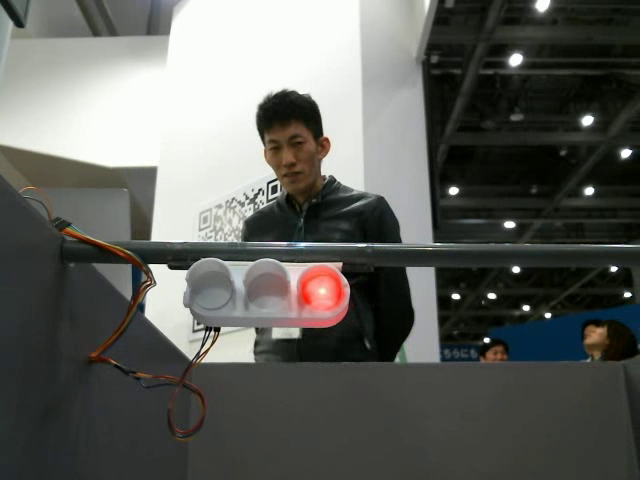
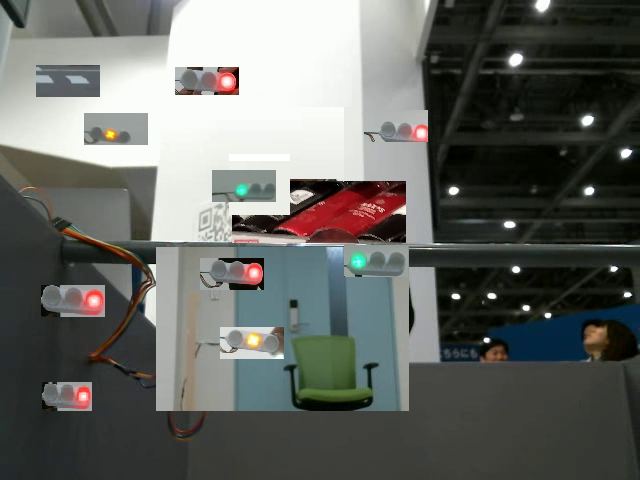
confirmed testbench works successfully (RGB/HSV+HOG)

diff --git a/hls/hog_svm/src/main.cpp b/hls/hog_svm/src/main.cpp
@@ -40,9 +40,6 @@ inline int approx_distance(int dx, int dy){
 	            ( min << 7 ) - ( min << 5 ) + ( min << 3 ) - ( min << 1 )) >> 8 );
 }
 
-struct bgr{
-	unsigned char b,g,r;
-};
 void grayscale_and_resizing(hls::stream<bgr>& bgr_in, hls::stream<bgr>&upper_scaled_rgb, hls::stream<bgr>&bottom_scaled_rgb, hls::stream<ap_uint<8> >& gray_pix){
 	//scaleBuffer[i][j]
 	//i indicates the kind of location in (8,8) cell
@@ -61,7 +58,7 @@ void grayscale_and_resizing(hls::stream<bgr>& bgr_in, hls::stream<bgr>&upper_sca
 					gray_pix.write(gray);
 					int yy2 = yy%4;
 					if((yy2 == 1 || yy2 == 2) && (xx == 3 || xx == 4)){
-						if(y == 6 && x == 4){
+						if(yy == 6 && xx == 4){
 							//generate upper and bottom output
 							bgr pix1, pix2, pix3, pix4, pix5, pix6, pix7, pix8;
 							pix1 = scaleBuffer[0][x];
@@ -87,8 +84,10 @@ void grayscale_and_resizing(hls::stream<bgr>& bgr_in, hls::stream<bgr>&upper_sca
 							b_rst.r = u_rsum / 4 + (((u_rsum % 2) > 0) ? 1 : 0);
 							upper_scaled_rgb.write(u_rst);
 							bottom_scaled_rgb.write(b_rst);
+							//cout << y << " " << x << " " << u_rst.b << " " << b_rst.b << endl;
 						}else{
-							int bufindex = 4 * (y / 4) + yy2 * 2 + (xx - 3);
+							int bufindex = 4 * (yy / 4) + 2 * (yy2 / 2) + (xx - 3);
+							//cout << bufindex << endl;
 							scaleBuffer[bufindex][x] = pix;
 						}
 					}
@@ -126,10 +125,10 @@ void bgr2hsv(unsigned char bb, unsigned char gg, unsigned char rr, unsigned char
 }
 
 struct pixweight{
-	ap_fixed_float upper_bgrweight[3];
-	ap_fixed_float bottom_bgrweight[3];
 	ap_fixed_float upper_hsvweight[3];
 	ap_fixed_float bottom_hsvweight[3];
+	ap_fixed_float upper_bgrweight[3];
+	ap_fixed_float bottom_bgrweight[3];
 };
 
 ap_fixed_float multiply_accum_bgr(ap_fixed_float weights[3], bgr features){
@@ -141,41 +140,41 @@ ap_fixed_float multiply_accum_bgr(ap_fixed_float weights[3], bgr features){
 void bgr_hsv_svm_classification(hls::stream<bgr>& upper_scaled_in, hls::stream<bgr>& bottom_scaled_in, hls::stream<ap_fixed_float>& resultstream){
 	ap_fixed_float PartialSum[4][80 - 8 + 1];
 	const pixweight WeightData[4][8] = {
-	{{{0.13471201, 0.083322162, 0.035062906}, {0.13471201, 0.083322162, 0.035062906}, {0.050302028, 0.041768948, -0.018623708}, {0.050302028, 0.041768948, -0.018623708}},
-	{{0.12138333, -0.021585074, 0.026402816}, {0.12138333, -0.021585074, 0.026402816}, {0.023603471, 0.033578816, 0.0098683894}, {0.023603471, 0.033578816, 0.0098683894}},
-	{{0.064547878, -0.036325294, -0.051299207}, {0.064547878, -0.036325294, -0.051299207}, {-0.015845041, -0.047933505, -0.029382994}, {-0.015845041, -0.047933505, -0.029382994}},
-	{{-0.082272872, -0.037619732, -0.0032339732}, {-0.082272872, -0.037619732, -0.0032339732}, {-0.0045304722, -0.014916845, -0.0088652933}, {-0.0045304722, -0.014916845, -0.0088652933}},
-	{{0.060039154, -0.15293596, -0.080378009}, {0.060039154, -0.15293596, -0.080378009}, {0.030134322, -0.011468256, 0.021366325}, {0.030134322, -0.011468256, 0.021366325}},
-	{{0.061231119, 0.054127958, 0.030798207}, {0.061231119, 0.054127958, 0.030798207}, {0.042379168, 0.026543052, 0.10076567}, {0.042379168, 0.026543052, 0.10076567}},
-	{{0.0029276586, 0.017786769, -0.01837371}, {0.0029276586, 0.017786769, -0.01837371}, {-0.16910963, -0.19076954, 0.051312153}, {-0.16910963, -0.19076954, 0.051312153}},
-	{{-0.010471252, -0.10217662, -0.014071269}, {-0.010471252, -0.10217662, -0.014071269}, {-0.067393744, -0.096034793, -0.0059219049}, {-0.067393744, -0.096034793, -0.0059219049}}}
+	{{{0.13471201, 0.083322162, 0.035062906}, {-0.11489125, 0.0059167839, 0.027757671}, {0.047419214, 0.038957065, 0.026170945}, {0.050302028, 0.041768948, -0.018623708}},
+	{{0.12138333, -0.021585074, 0.026402816}, {-0.093760109, 0.013729818, 0.018887553}, {0.036655084, 0.042319087, 0.032978136}, {0.023603471, 0.033578816, 0.0098683894}},
+	{{0.064547878, -0.036325294, -0.051299207}, {-0.019958287, -0.039659468, -0.034957669}, {-0.051825588, -0.022724007, -0.023615365}, {-0.015845041, -0.047933505, -0.029382994}},
+	{{-0.082272872, -0.037619732, -0.0032339732}, {0.10066434, -0.012884961, 0.004957952}, {0.0052929725, 0.034503772, 0.054640886}, {-0.0045304722, -0.014916845, -0.0088652933}},
+	{{0.060039154, -0.15293596, -0.080378009}, {0.030640047, -0.1577689, 0.005688175}, {-0.028081409, -0.031332055, -0.047488313}, {0.030134322, -0.011468256, 0.021366325}},
+	{{0.061231119, 0.054127958, 0.030798207}, {-0.03109787, 0.0048661604, 0.074427291}, {0.0038479692, -0.019300525, 0.038895896}, {0.042379168, 0.026543052, 0.10076567}},
+	{{0.0029276586, 0.017786769, -0.01837371}, {-0.13702389, 0.18198122, 0.033470003}, {-0.044036768, -0.053151348, -0.017373555}, {-0.16910963, -0.19076954, 0.051312153}},
+	{{-0.010471252, -0.10217662, -0.014071269}, {-0.0077155735, 0.0027027836, -0.013702486}, {-0.00078318174, -0.0134685, -0.025473166}, {-0.067393744, -0.096034793, -0.0059219049}}}
 	,
-	{{{-0.053935112, 0.0091040652, -0.031652548}, {-0.053935112, 0.0091040652, -0.031652548}, {-0.02003568, -0.020670034, -0.022160591}, {-0.02003568, -0.020670034, -0.022160591}},
-	{{-0.020781729, -0.24581708, -0.071282291}, {-0.020781729, -0.24581708, -0.071282291}, {-0.097039813, -0.13357548, 0.084337575}, {-0.097039813, -0.13357548, 0.084337575}},
-	{{-0.084402904, -0.11817464, 0.039444177}, {-0.084402904, -0.11817464, 0.039444177}, {-0.033581, -0.049768229, 0.18229063}, {-0.033581, -0.049768229, 0.18229063}},
-	{{0.13687052, -0.13877358, 0.035004109}, {0.13687052, -0.13877358, 0.035004109}, {0.035067667, -0.069998808, 0.11097779}, {0.035067667, -0.069998808, 0.11097779}},
-	{{0.15890596, -0.12908746, -0.036374915}, {0.15890596, -0.12908746, -0.036374915}, {-0.077920979, -0.32958032, -0.0065736498}, {-0.077920979, -0.32958032, -0.0065736498}},
-	{{-0.1934103, -0.032097639, 0.11303854}, {-0.1934103, -0.032097639, 0.11303854}, {-0.00094657861, -0.043625967, 0.23625573}, {-0.00094657861, -0.043625967, 0.23625573}},
-	{{-0.22198444, 0.19131014, 0.17004659}, {-0.22198444, 0.19131014, 0.17004659}, {-0.0033271789, 0.011490043, 0.32489379}, {-0.0033271789, 0.011490043, 0.32489379}},
-	{{-0.16449135, 0.10548364, 0.067575418}, {-0.16449135, 0.10548364, 0.067575418}, {-0.13897258, -0.14510974, 0.068374273}, {-0.13897258, -0.14510974, 0.068374273}}}
+	{{{-0.053935112, 0.0091040652, -0.031652548}, {0.023416391, -0.074666061, -0.039775589}, {-0.035288374, -0.035181796, -0.017707323}, {-0.02003568, -0.020670034, -0.022160591}},
+	{{-0.020781729, -0.24581708, -0.071282291}, {0.14290865, -0.27017456, -0.13471213}, {-0.047661749, -0.067916795, 0.056500322}, {-0.097039813, -0.13357548, 0.084337575}},
+	{{-0.084402904, -0.11817464, 0.039444177}, {-0.088003478, -0.2736915, -0.030637774}, {0.0062391187, 0.022572013, 0.10186606}, {-0.033581, -0.049768229, 0.18229063}},
+	{{0.13687052, -0.13877358, 0.035004109}, {-0.021838353, -0.16480011, 0.041279092}, {0.0072159019, -0.030498058, 0.066940656}, {0.035067667, -0.069998808, 0.11097779}},
+	{{0.15890596, -0.12908746, -0.036374915}, {0.14669574, -0.085918652, -0.057287366}, {-0.048676388, -0.14245471, 0.013761205}, {-0.077920979, -0.32958032, -0.0065736498}},
+	{{-0.1934103, -0.032097639, 0.11303854}, {-0.017067001, 0.020565927, 0.16309413}, {-0.010302848, -0.014339011, 0.19905551}, {-0.00094657861, -0.043625967, 0.23625573}},
+	{{-0.22198444, 0.19131014, 0.17004659}, {-0.18556159, 0.25616134, 0.27801237}, {-0.097839446, -0.10329261, 0.20554061}, {-0.0033271789, 0.011490043, 0.32489379}},
+	{{-0.16449135, 0.10548364, 0.067575418}, {0.019044619, 0.12031009, 0.045026213}, {-0.067908699, -0.091900212, 0.068250282}, {-0.13897258, -0.14510974, 0.068374273}}}
 	,
-	{{{0.08470874, -0.03524777, -0.023765044}, {0.08470874, -0.03524777, -0.023765044}, {0.074593713, 0.058966379, 0.059484843}, {0.074593713, 0.058966379, 0.059484843}},
-	{{-0.033169333, -0.25499266, -0.13677776}, {-0.033169333, -0.25499266, -0.13677776}, {-0.043610391, -0.068694957, -0.012626139}, {-0.043610391, -0.068694957, -0.012626139}},
-	{{-0.13132883, -0.30579938, -0.13154223}, {-0.13132883, -0.30579938, -0.13154223}, {-0.016838394, -0.10008507, -0.022767541}, {-0.016838394, -0.10008507, -0.022767541}},
-	{{0.16711428, -0.14871899, 0.043064104}, {0.16711428, -0.14871899, 0.043064104}, {-0.00097244005, -0.1720749, -0.049039706}, {-0.00097244005, -0.1720749, -0.049039706}},
-	{{-0.028743729, -0.091273505, 0.034011042}, {-0.028743729, -0.091273505, 0.034011042}, {-0.11783557, -0.38750312, 0.064519567}, {-0.11783557, -0.38750312, 0.064519567}},
-	{{0.0056306783, -0.014925917, 0.18519255}, {0.0056306783, -0.014925917, 0.18519255}, {-0.058837353, -0.15747198, 0.14471212}, {-0.058837353, -0.15747198, 0.14471212}},
-	{{-0.10777391, 0.17725541, 0.23888486}, {-0.10777391, 0.17725541, 0.23888486}, {0.059702007, 0.016759473, 0.18784607}, {0.059702007, 0.016759473, 0.18784607}},
-	{{-0.17712807, 0.087059749, 0.083511978}, {-0.17712807, 0.087059749, 0.083511978}, {0.0092453054, -0.070892581, 0.0043148652}, {0.0092453054, -0.070892581, 0.0043148652}}}
+	{{{0.08470874, -0.03524777, -0.023765044}, {-0.03068641, 0.16649633, 0.076372839}, {0.020160063, -0.031518301, -0.021673036}, {0.074593713, 0.058966379, 0.059484843}},
+	{{-0.033169333, -0.25499266, -0.13677776}, {0.056319299, -0.15510863, -0.08903264}, {-0.095515848, -0.12267881, 0.036372467}, {-0.043610391, -0.068694957, -0.012626139}},
+	{{-0.13132883, -0.30579938, -0.13154223}, {-0.068596446, -0.093998606, -0.050063475}, {-0.081755654, -0.14015116, 0.04963001}, {-0.016838394, -0.10008507, -0.022767541}},
+	{{0.16711428, -0.14871899, 0.043064104}, {0.094610934, 0.001756563, -0.0044180378}, {0.083483431, -0.091793456, 0.074646079}, {-0.00097244005, -0.1720749, -0.049039706}},
+	{{-0.028743729, -0.091273505, 0.034011042}, {0.0075680724, 0.041664244, 0.079285246}, {-0.0077342154, -0.31845474, 0.050872274}, {-0.11783557, -0.38750312, 0.064519567}},
+	{{0.0056306783, -0.014925917, 0.18519255}, {-0.0054362796, 0.054282867, 0.1365067}, {0.03983544, -0.037319012, 0.22617257}, {-0.058837353, -0.15747198, 0.14471212}},
+	{{-0.10777391, 0.17725541, 0.23888486}, {0.056713651, 0.043068698, 0.1859542}, {0.027665586, 0.048369309, 0.26915897}, {0.059702007, 0.016759473, 0.18784607}},
+	{{-0.17712807, 0.087059749, 0.083511978}, {0.24562723, -0.097942299, 0.010980114}, {-0.046524645, -0.097195807, 0.08723558}, {0.0092453054, -0.070892581, 0.0043148652}}}
 	,
-	{{{0.13409783, 0.13689984, 0.0075472259}, {0.13409783, 0.13689984, 0.0075472259}, {0.093046917, 0.062794018, 0.027703842}, {0.093046917, 0.062794018, 0.027703842}},
-	{{-0.041404445, -0.061232684, -0.09921005}, {-0.041404445, -0.061232684, -0.09921005}, {0.079139321, 0.047343812, 0.0083861466}, {0.079139321, 0.047343812, 0.0083861466}},
-	{{0.026515395, -0.042265334, 0.014214927}, {0.026515395, -0.042265334, 0.014214927}, {0.091222795, 0.054607177, 0.014804954}, {0.091222795, 0.054607177, 0.014804954}},
-	{{0.076428341, -0.098295236, 0.05998011}, {0.076428341, -0.098295236, 0.05998011}, {0.0068872233, -0.043541468, -0.084461526}, {0.0068872233, -0.043541468, -0.084461526}},
-	{{0.0048971584, 0.088781691, 0.15474196}, {0.0048971584, 0.088781691, 0.15474196}, {-0.0022159363, -0.07038476, -0.026038157}, {-0.0022159363, -0.07038476, -0.026038157}},
-	{{0.12206222, 0.087455524, 0.11157121}, {0.12206222, 0.087455524, 0.11157121}, {-0.09174724, -0.17449156, 0.023081852}, {-0.09174724, -0.17449156, 0.023081852}},
-	{{0.011593439, 0.047574944, 0.080315934}, {0.011593439, 0.047574944, 0.080315934}, {-0.0063195126, -0.077341474, 0.060669956}, {-0.0063195126, -0.077341474, 0.060669956}},
-	{{0.2145156, -0.081198541, 0.0079493893}, {0.2145156, -0.081198541, 0.0079493893}, {0.014578249, -0.031849439, -0.057506089}, {0.014578249, -0.031849439, -0.057506089}}}
+	{{{0.13409783, 0.13689984, 0.0075472259}, {0.10770624, 0.010834147, 0.071970418}, {0.024553963, -0.0079424006, -0.017202642}, {0.093046917, 0.062794018, 0.027703842}},
+	{{-0.041404445, -0.061232684, -0.09921005}, {0.11263616, -0.050804371, 0.046415531}, {-0.04913116, -0.076821983, -0.13409917}, {0.079139321, 0.047343812, 0.0083861466}},
+	{{0.026515395, -0.042265334, 0.014214927}, {0.13647454, 0.026731901, 0.062572857}, {0.081538978, 0.0028748215, -0.026182201}, {0.091222795, 0.054607177, 0.014804954}},
+	{{0.076428341, -0.098295236, 0.05998011}, {0.070267192, 0.085216682, -0.033937413}, {0.12492841, 0.029636209, 0.02542101}, {0.0068872233, -0.043541468, -0.084461526}},
+	{{0.0048971584, 0.088781691, 0.15474196}, {0.24920096, -0.0038437363, 0.02773377}, {0.044517344, -0.015973074, 0.087979016}, {-0.0022159363, -0.07038476, -0.026038157}},
+	{{0.12206222, 0.087455524, 0.11157121}, {0.19535385, 0.056255044, 0.040264583}, {-0.091658044, -0.20059365, 0.074981463}, {-0.09174724, -0.17449156, 0.023081852}},
+	{{0.011593439, 0.047574944, 0.080315934}, {0.13535853, 0.035601949, 0.090238403}, {-0.053039994, -0.13470152, 0.079768763}, {-0.0063195126, -0.077341474, 0.060669956}},
+	{{0.2145156, -0.081198541, 0.0079493893}, {0.21235973, -0.18241348, -0.031669819}, {-0.023815182, -0.10272988, -0.0048716048}, {0.014578249, -0.031849439, -0.057506089}}}
 
 	};
 #pragma HLS RESOURCE variable=WeightData core=ROM_1P_BRAM
@@ -474,7 +473,6 @@ void hog_svm_classification(hls::stream<ap_fixed9_float>& upperleft, hls::stream
 			PartialSum[i][j] = 0;
 		}
 	}
-	ap_fixed_float bias = -14.786592;
 	loop_y:for(int y = 0; y < BLOCK_NUM_H; y++){
 		loop_x:for(int x = 0; x < BLOCK_NUM_W; x++){
 			ap_fixed9_float ul = upperleft.read();
@@ -500,7 +498,7 @@ void hog_svm_classification(hls::stream<ap_fixed9_float>& upperleft, hls::stream
 
 							bool window_completed = (block_index_x == (WINDOW_BLOCKNUM_W - 1) && block_index_y == (WINDOW_BLOCKNUM_H - 1));
 							if(window_completed){
-								ap_fixed_float allsum = PartialSum[partial_sum_index_y][winx] + bias;
+								ap_fixed_float allsum = PartialSum[partial_sum_index_y][winx];
 								PartialSum[partial_sum_index_y][winx] = 0;
 								//ap_axis<8,1,1,1> ap_y, ap_x;
 								//ap_y.data = block_start_y;
@@ -536,12 +534,14 @@ void hog_svm(hls::stream<bgr>& instream, hls::stream<ap_fixed_float>& resultstre
 	block_histogram_normalization(bottom, upper, ul_out, ur_out, bl_out, br_out);
 	hog_svm_classification(ul_out, ur_out, bl_out, br_out, hog_resultstream);
 	bgr_hsv_svm_classification(upper_scaled_rgb, bottom_scaled_rgb, bgr_hsv_resultstream);
+
+	ap_fixed_float bias = -6.5475914;
 	for(int y = 0; y < 57; y++){
 		for(int x = 0; x < 73; x++){
 			ap_fixed_float rst1, rst2;
 			rst1 = hog_resultstream.read();
 			rst2 = bgr_hsv_resultstream.read();
-			resultstream.write(rst1 + rst2);
+			resultstream.write(rst1 + rst2 + bias);
 			ystream.write(y);
 			xstream.write(x);
 		}

diff --git a/hls/hog_svm/src/main_tb.cpp b/hls/hog_svm/src/main_tb.cpp
@@ -11,13 +11,20 @@
 
 #include "consts.h"
 #include "hog_host.h"
+#include <sstream>
 
 using namespace std;
 using namespace cv;
 
 typedef hls::stream<ap_axis<32,1,1,1> > block_out;
-void hog_svm(hls::stream<ap_axis<8,1,1,1> >& instream, hls::stream<ap_fixed_float >& resultstream, hls::stream<ap_axis<8,1,1,1> >& ystream, hls::stream<ap_axis<8,1,1,1> >& xstream);
+void hog_svm(hls::stream<bgr>& instream, hls::stream<ap_fixed_float>& resultstream, hls::stream<ap_int<8> >& ystream, hls::stream<ap_int<8> >& xstream);
 
+string tostr(double val){
+	std::stringstream ss;
+	ss << val;
+	std::string str = ss.str();
+	return str;
+}
 void ap_fixed_playground(){
 //test ap_fixed_behavior
 	ap_fixed<24,20> a = 28087;
@@ -45,85 +52,48 @@ void ap_fixed_playground(){
 	cout << fixed << setprecision(10) << sqrt_rst3 << endl;
 }
 int main(){
-	ap_fixed_playground();
+	//ap_fixed_playground();
 
 	cv::Mat img = cv::imread("frame.png");
-	cv::Mat gray;
-	cv::cvtColor(img, gray, CV_BGR2GRAY);
-
-	//unsigned char image_buffer[32*64];
-	hls::stream<ap_axis<8,1,1,1> > instream;//, instream_host;
-	unsigned char image_buffer2[32][64];
-	//double sw_ans[HISTOGRAMSIZE] = {0};
-	//int sw_unnormalized_descriptor[HISTOGRAMSIZE];
-	//unsigned short hw_ans[HISTOGRAMSIZE]={0};
+	cv::Mat frame_copy = img.clone();
+	hls::stream<bgr> instream;
 
 	//Input Value Preparation
 	ap_axis<8,1,1,1> in, in2;
 	for(int y = 0; y < 480; y++){
 		for(int x = 0; x < 640; x++){
-			in.data = gray.ptr<uchar>(y)[x];
-			in2.data = gray.ptr<uchar>(y)[x];
+			cv::Vec<unsigned char, 3> pix = img.ptr<cv::Vec3b>(y)[x];
+			bgr in = bgr{pix[0], pix[1], pix[2]};
 			instream << in;
-			//instream_host << in2;
 		}
 	}
+
+	//Execute HW
 	hls::stream<ap_fixed_float> resultstream;
-	hls::stream<ap_axis<8,1,1,1> > ystream;
-	hls::stream<ap_axis<8,1,1,1> > xstream;
+	hls::stream<ap_int<8> > ystream;
+	hls::stream<ap_int<8> > xstream;
+	double thresh = 0.70;
 	hog_svm(instream, resultstream, ystream, xstream);
 	cout << "hw call end" << endl;
+
 	long long int cnt = 0;
 	while(!ystream.empty()){
 		double result = resultstream.read();
-		int y = ystream.read().data;
-		int x = xstream.read().data;
-		double sigmoid_result = 1.0/(1.0 + exp(-result));
-		if(sigmoid_result> 0.90) cout << "result: " << sigmoid_result << "y: " << y << "x: " << x << endl;
+		int y = ystream.read() * 8;
+		int x = xstream.read() * 8;
+		double proba = 1.0/(1.0 + exp(-result));
+		if(proba > thresh) {
+			cout << "result: " << proba << "y: " << y << "x: " << x << endl;
+			rectangle(frame_copy, Point(x, y), Point(x + 64, y + 32), Scalar(0,0,200), 2); //x,y //Scaler = B,G,R
+			cv::putText(frame_copy, tostr(proba * 100.0), cv::Point(x,y-5), 5, 0.5, cv::Scalar(255.0,0,0), 1, CV_AA, false);
+		}
 		cnt++;
 	}
+
+	cv::imshow("result", frame_copy);
+	cv::waitKey(0);
 	cout << "result num: " << cnt << endl;
 
-	/*Running SW and HW implementation
-	hls::stream<ap_axis<32,1,1,1> > magstream, binstream, magstream_host, binstream_host;
-
-	//magnitude and binindex are generated from HW implementation
-	compute_mag_and_bin(instream, magstream, binstream);
-	compute_mag_and_bin(instream_host, magstream_host, binstream_host);
-
-	hls::stream<ap_axis<32,1,1,1> > bottom0, bottom1, bottom2, bottom3, bottom4, bottom5, bottom6, bottom7, bottom8, upper0, upper1, upper2, upper3, upper4, upper5, upper6, upper7, upper8;
-	//cell histogram generation by HW implementation
-	cell_histogram_generate(magstream, binstream, bottom0, bottom1, bottom2, bottom3, bottom4, bottom5, bottom6, bottom7, bottom8, upper0, upper1, upper2, upper3, upper4, upper5, upper6, upper7, upper8);
-	//cell histgoram generation by SW implementation
-	cell_histogram_host(magstream_host, binstream_host);
-
-	//validation
-	for(int i = 0; i < 59*80*9; i++){
-		int hw_bottom, hw_upper;
-		if(i % 9 == 0) hw_bottom = bottom0.read().data;
-		if(i % 9 == 1) hw_bottom = bottom1.read().data;
-		if(i % 9 == 2) hw_bottom = bottom2.read().data;
-		if(i % 9 == 3) hw_bottom = bottom3.read().data;
-		if(i % 9 == 4) hw_bottom = bottom4.read().data;
-		if(i % 9 == 5) hw_bottom = bottom5.read().data;
-		if(i % 9 == 6) hw_bottom = bottom6.read().data;
-		if(i % 9 == 7) hw_bottom = bottom7.read().data;
-		if(i % 9 == 8) hw_bottom = bottom8.read().data;
-		if(i % 9 == 0) hw_upper = upper0.read().data;
-		if(i % 9 == 1) hw_upper = upper1.read().data;
-		if(i % 9 == 2) hw_upper = upper2.read().data;
-		if(i % 9 == 3) hw_upper = upper3.read().data;
-		if(i % 9 == 4) hw_upper = upper4.read().data;
-		if(i % 9 == 5) hw_upper = upper5.read().data;
-		if(i % 9 == 6) hw_upper = upper6.read().data;
-		if(i % 9 == 7) hw_upper = upper7.read().data;
-		if(i % 9 == 8) hw_upper = upper8.read().data;
-
-		if(upper_sw_rst[i] != hw_upper || bottom_sw_rst[i] != hw_bottom){
-			cout << upper_sw_rst[i] << " " << hw_upper << " " << bottom_sw_rst[i] << " " << hw_bottom << endl;
-			err = true;
-		}
-	}*/
 	bool err = false;
 	if(!err) return 0;
 	else return -1;

diff --git a/hls/hog_svm/src/hog_host.h b/hls/hog_svm/src/hog_host.h
@@ -1,5 +1,5 @@
 #include <vector>
-#include "consts.h"
+//#include "consts.h"
 using namespace std;
 
 //void lite_hog(cv::Mat img, double* dst, bool approx_mode, int descriptor[HISTOGRAMSIZE]);

diff --git a/hls/hog_svm/src/consts.h b/hls/hog_svm/src/consts.h
@@ -12,3 +12,6 @@
 
 typedef ap_fixed<24,8,AP_RND> ap_fixed_float;
 //typedef ap_fixed<64,20,AP_RND> ap_fixed_float;
+struct bgr{
+	unsigned char b,g,r;
+};
